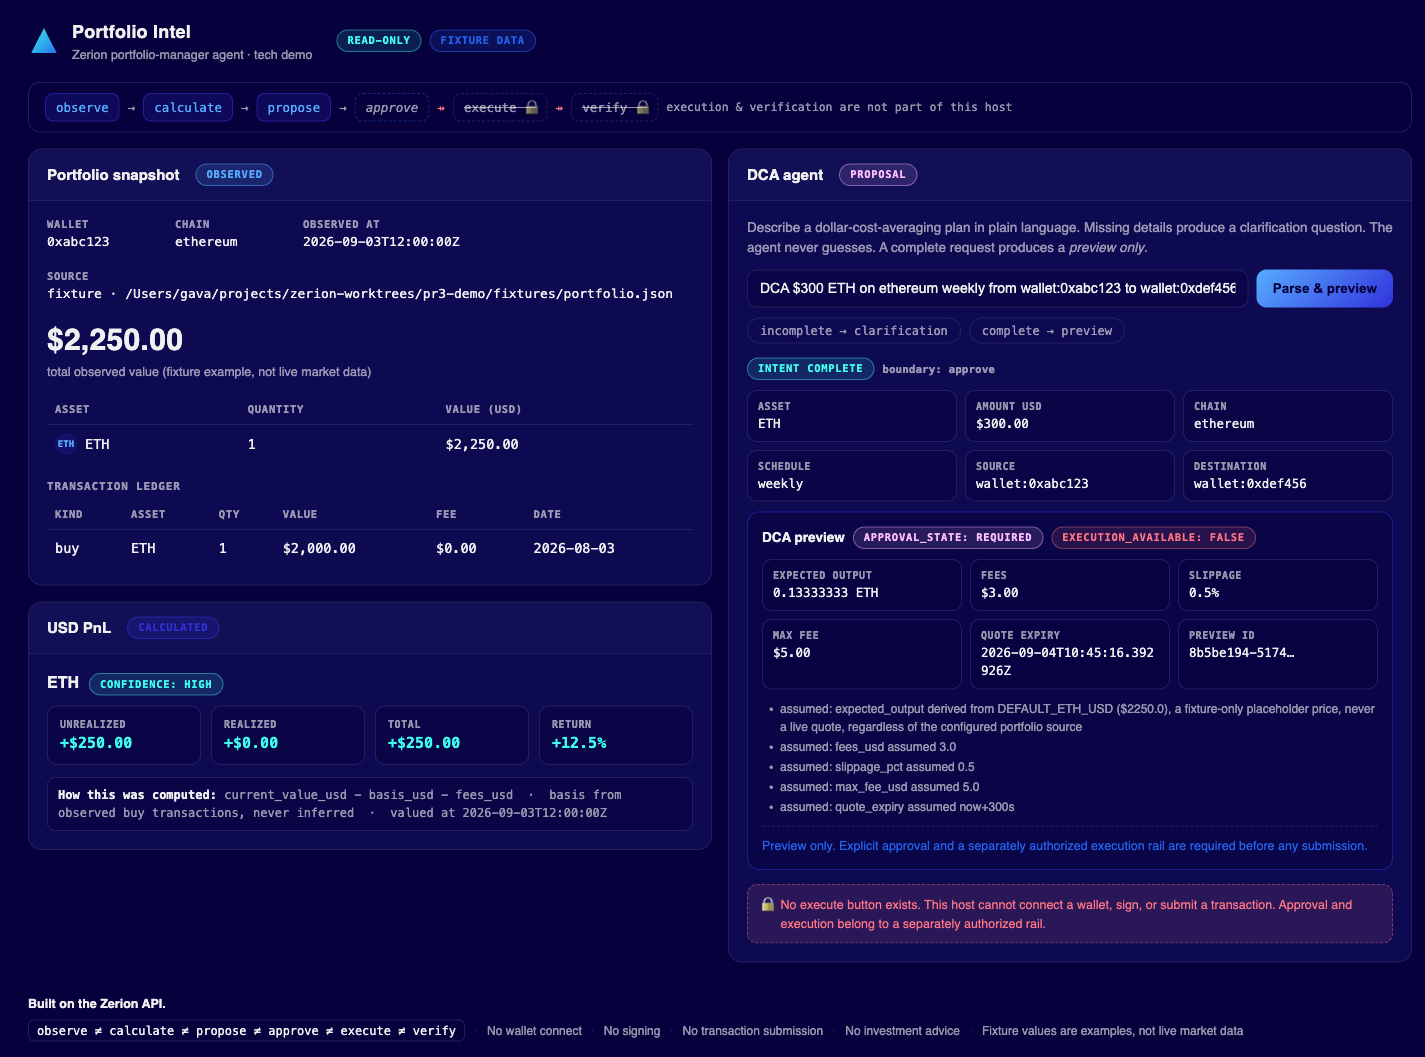
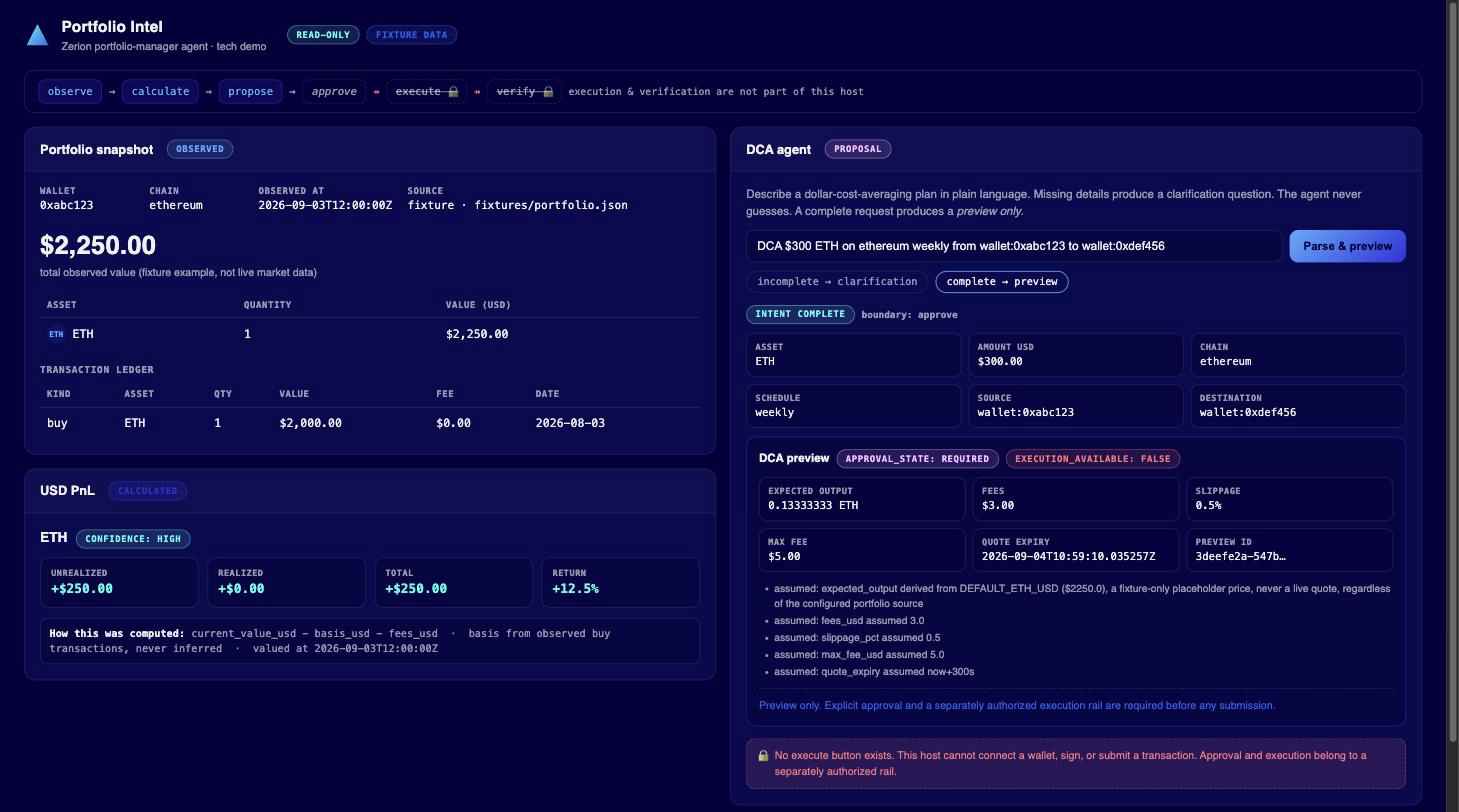
fix: demo snapshot source no longer leaks an absolute filesystem path
The /api/snapshot response reported the fixture's full local path, including
the operator's home directory, in source.locator. This showed up in the
demo's UI and in the committed screenshot. server.py now rewrites the
response to a repo-relative path (fixtures/portfolio.json) before sending;
the actual fixture read still uses the absolute path internally, this is
display-only. Screenshot retaken to reflect the fix.

diff --git a/demo/zerion-portfolio-agent/server.py b/demo/zerion-portfolio-agent/server.py
@@ -38,6 +38,21 @@ HOST = ReadOnlyHost(FIXTURE_PATH)
 MAX_BODY_BYTES = 16 * 1024
 
 
+def _relativize_snapshot_locator(payload: Dict[str, Any]) -> Dict[str, Any]:
+    """Rewrite an absolute fixture path in the snapshot response to a repo-relative
+    one, so the demo UI never displays the host's home directory. Display-only: the
+    fixture is still read from the absolute FIXTURE_PATH."""
+    locator = payload.get("snapshot", {}).get("source", {}).get("locator")
+    if not locator:
+        return payload
+    try:
+        relative = str(Path(locator).relative_to(REPO_ROOT))
+    except ValueError:
+        relative = os.path.relpath(locator, REPO_ROOT)
+    payload["snapshot"]["source"]["locator"] = relative
+    return payload
+
+
 class DemoHandler(SimpleHTTPRequestHandler):
     """Static files from the demo directory plus the read-only JSON API."""
 
@@ -68,7 +83,7 @@ class DemoHandler(SimpleHTTPRequestHandler):
     def do_GET(self) -> None:  # noqa: N802 (http.server API)
         parsed = urlparse(self.path)
         if parsed.path == "/api/snapshot":
-            self._send_json(HOST.get_portfolio_snapshot())
+            self._send_json(_relativize_snapshot_locator(HOST.get_portfolio_snapshot()))
             return
         if parsed.path == "/api/pnl":
             asset_values = parse_qs(parsed.query).get("asset")

diff --git a/demo/zerion-portfolio-agent/test_server_smoke.py b/demo/zerion-portfolio-agent/test_server_smoke.py
@@ -89,6 +89,16 @@ def test_get_snapshot(running_server: ThreadingHTTPServer) -> None:
     assert result["snapshot"]["holdings"][0]["asset"] == "ETH"
 
 
+def test_get_snapshot_locator_is_relative_not_absolute(
+    running_server: ThreadingHTTPServer,
+) -> None:
+    result = _get_json(running_server, "/api/snapshot")
+    locator = result["snapshot"]["source"]["locator"]
+    assert locator == "fixtures/portfolio.json"
+    assert not Path(locator).is_absolute()
+    assert "/Users" not in locator
+
+
 def test_get_pnl(running_server: ThreadingHTTPServer) -> None:
     result = _get_json(running_server, "/api/pnl")
     assert result["status"] == "ok"
